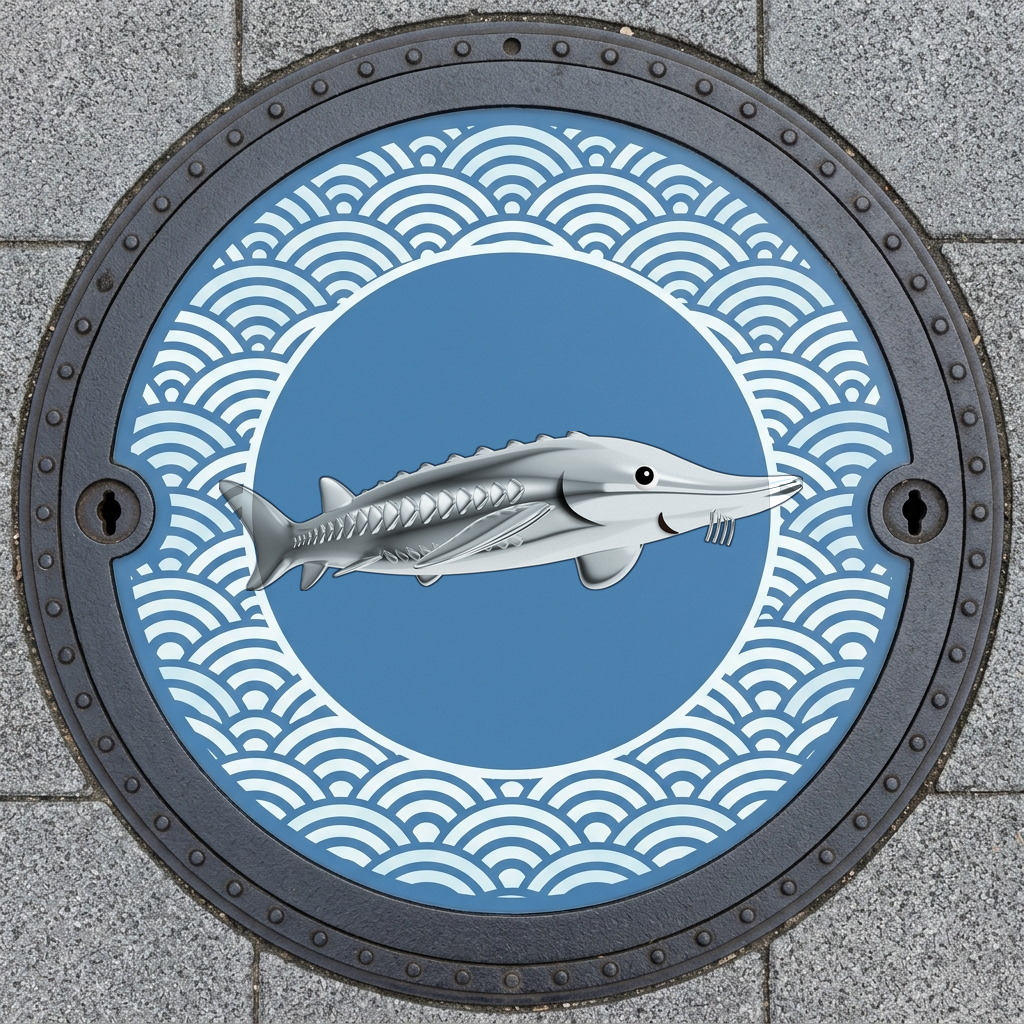
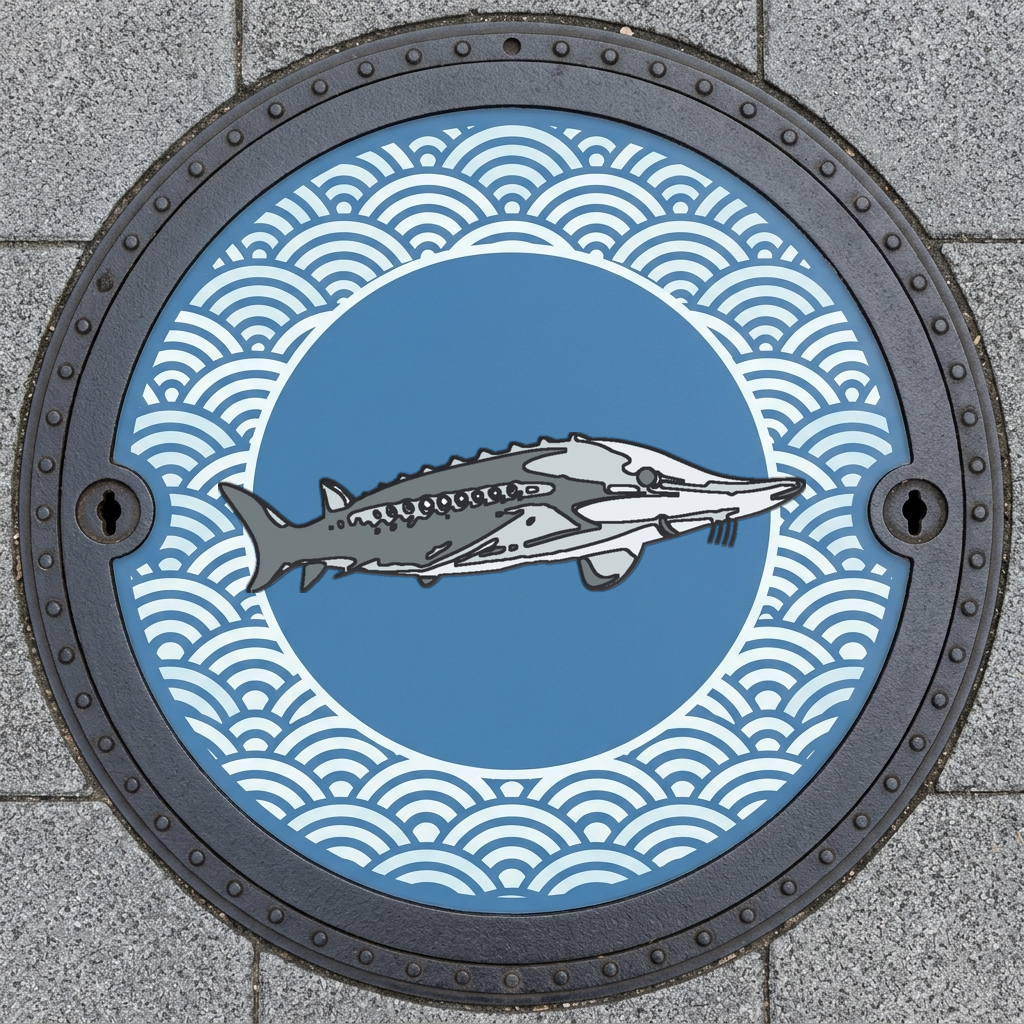
The covers are castings now, not pictures stuck on a disc
A colour cover is flat opaque resin poured into raised iron cells, so both
Fujies are rebuilt that way before they go on: one flat colour per area,
an iron wall around each, a hard edge and nothing see-through. The colours
are taken from the original artwork rather than invented. The lake and
bubble covers were regenerated because they had come back photographic.

Changed region(s): [[0.2188, 0.4062, 0.7812, 0.5938]]

diff --git a/tools/cast_art.py b/tools/cast_art.py
@@ -1,0 +1,92 @@
+"""Turn a piece of Fujie artwork into something a foundry could actually cast.
+
+A Japanese colour manhole cover is raised iron outlines with flat opaque
+resin poured into the cells between them. So the artwork has to lose its
+gloss, its gradients and any soft edge: every part becomes one flat colour,
+every colour is walled by a raised iron line, and nothing is see-through.
+The flat colours are taken FROM the original artwork, so nothing is invented.
+"""
+import numpy as np
+from PIL import Image, ImageDraw, ImageFilter, ImageChops
+
+IRON = (46, 48, 52)
+
+
+def _near_white(rgb, thr=232):
+    return (rgb.min(axis=2) > thr)
+
+
+def solid_cutout(path):
+    """Opaque silhouette + RGB. Background is only what the border can reach,
+    so white bellies and white highlights stay part of the character."""
+    im = Image.open(path)
+    if im.mode == "RGBA":
+        bg = Image.new("RGB", im.size, (255, 255, 255))
+        bg.paste(im, mask=im.getchannel("A"))
+        rgb = bg
+    else:
+        rgb = im.convert("RGB")
+    a = np.asarray(rgb).astype(int)
+    nw = np.ascontiguousarray((_near_white(a).astype(np.uint8)) * 255)
+    flood = Image.fromarray(nw).copy()   # fromarray shares a read-only buffer
+    w, h = flood.size
+    seeds = [(0, 0), (w - 1, 0), (0, h - 1), (w - 1, h - 1),
+             (w // 2, 0), (w // 2, h - 1), (0, h // 2), (w - 1, h // 2)]
+    for s in seeds:
+        if flood.getpixel(s) == 255:
+            ImageDraw.floodfill(flood, s, 128, thresh=0)
+    outside = np.array(flood) == 128
+    mask = (~outside).astype(np.uint8) * 255
+    mask = Image.fromarray(mask).filter(ImageFilter.MedianFilter(5))
+    bb = mask.point(lambda p: 255 if p > 127 else 0).getbbox()
+    return rgb.crop(bb), mask.crop(bb)
+
+
+def cast(path, colours=4, line=3.0, bevel=True, scale=1, simplify=9):
+    """Flatten the artwork to `colours` flat cells and wall each one in iron."""
+    rgb, mask = solid_cutout(path)
+    if scale != 1:
+        sz = (int(rgb.width * scale), int(rgb.height * scale))
+        rgb = rgb.resize(sz, Image.LANCZOS)
+        mask = mask.resize(sz, Image.LANCZOS)
+    m = np.asarray(mask) > 127
+
+    # flat cells, using colours sampled from the artwork itself
+    pre = rgb.filter(ImageFilter.MedianFilter(simplify | 1))
+    q = pre.quantize(colors=colours, method=Image.MEDIANCUT)
+    lab = np.asarray(q).astype(np.int16)
+    pal = np.asarray(q.getpalette()[: colours * 3]).reshape(-1, 3)
+    lab = np.asarray(Image.fromarray(lab.astype(np.uint8))
+                     .filter(ImageFilter.MedianFilter((simplify + 2) | 1))
+                     .filter(ImageFilter.MedianFilter((simplify + 2) | 1)))
+    flat = pal[np.clip(lab, 0, colours - 1)].astype(np.uint8)
+
+    # raised iron walls between cells and around the outside
+    edge = np.zeros(lab.shape, bool)
+    edge[:, 1:] |= lab[:, 1:] != lab[:, :-1]
+    edge[1:, :] |= lab[1:, :] != lab[:-1, :]
+    edge &= m
+    inner = Image.fromarray((edge * 255).astype(np.uint8))
+    inner = inner.filter(ImageFilter.MaxFilter(int(max(1, line)) | 1))
+
+    solid = Image.fromarray((m * 255).astype(np.uint8))
+    shrunk = solid.filter(ImageFilter.MinFilter(int(max(3, line * 2)) | 1))
+    contour = ImageChops.subtract(solid, shrunk)
+
+    out = Image.fromarray(flat).convert("RGBA")
+    ink = Image.new("RGBA", out.size, IRON + (0,))
+    ink.putalpha(ImageChops.lighter(inner, contour).filter(ImageFilter.GaussianBlur(0.6)))
+    out.alpha_composite(ink)
+
+    if bevel:
+        hgt = solid.filter(ImageFilter.GaussianBlur(max(1.5, line)))
+        hn = np.asarray(hgt).astype(np.float32) / 255.0
+        gy, gx = np.gradient(hn)
+        lit = np.clip((-gx - gy) * 2.6, -1, 1)
+        o = np.asarray(out).astype(np.float32)
+        o[..., :3] = np.clip(o[..., :3] + lit[..., None] * 42.0, 0, 255)
+        out = Image.fromarray(o.astype(np.uint8))
+
+    a = np.asarray(out).astype(np.uint8).copy()
+    a[..., 3] = (m * 255).astype(np.uint8)          # hard edge: nothing see-through
+    return Image.fromarray(a, "RGBA")

diff --git a/tools/build_manhole_set.py b/tools/build_manhole_set.py
@@ -7,8 +7,11 @@ three covers, Chibi Fujie on two. Nothing about either character is redrawn.
 Output: Fujie_Creative/20_new_ideas/cover_*.png  and  cover_set_sheet.png
 """
 import pathlib
+import sys
 import numpy as np
 from PIL import Image, ImageFilter, ImageChops
+sys.path.insert(0, str(pathlib.Path(__file__).parent))
+from cast_art import cast
 
 ROOT = pathlib.Path("D:/Fuji_Famous")
 OUT = ROOT / "Fujie_Creative" / "20_new_ideas"
@@ -28,19 +31,27 @@ def cutout(path, white_key=False):
 
 
 def field_circle(im):
-    """Find the coloured resin field: centre and radius, in pixels."""
+    """Find the resin field: the disc inside the iron ring. Rays out from the
+    middle until they run into a long stretch of iron."""
     a = np.asarray(im.convert("RGB")).astype(int)
-    m = ((a[:, :, 2] > a[:, :, 0] + 10) | (a[:, :, 1] > a[:, :, 0] + 10))
-    h, w = m.shape
-    m[: int(h * .04)] = False; m[int(h * .96):] = False
-    m[:, : int(w * .04)] = False; m[:, int(w * .96):] = False
-    ys, xs = np.nonzero(m)
-    cx, cy = (xs.min() + xs.max()) / 2, (ys.min() + ys.max()) / 2
-    r = min(xs.max() - xs.min(), ys.max() - ys.min()) / 2
-    return cx, cy, r
+    h, w, _ = a.shape
+    mx = a.max(2)
+    iron = ((mx - a.min(2)) < 28) & (mx < 120)
+    cy, cx = h / 2, w / 2
+    hits = []
+    for t in np.linspace(0, 2 * np.pi, 180, endpoint=False):
+        dx, dy, run = np.cos(t), np.sin(t), 0
+        for r in range(30, int(min(h, w) / 2)):
+            if iron[int(cy + dy * r), int(cx + dx * r)]:
+                run += 1
+                if run >= 14:
+                    hits.append(r - 13); break
+            else:
+                run = 0
+    return cx, cy, float(np.median(hits))
 
 
-def lay(base, art, cx, cy, r, wu, dy=0, flip=False, outline=2.4, shade=0.7):
+def lay(base, art, cx, cy, r, wu, dy=0, flip=False, outline=1.6, shade=0.0):
     art = art.transpose(Image.FLIP_LEFT_RIGHT) if flip else art
     fa = art.size[0] / art.size[1]
     W = 2 * wu * r
@@ -70,15 +81,18 @@ def lay(base, art, cx, cy, r, wu, dy=0, flip=False, outline=2.4, shade=0.7):
 # blank, character, width across the field, vertical nudge, mirrored, how much
 # of the cover's own light and texture the design picks up
 COVERS = [
-    ("cover_station",  "cover_blank_river",   "official", 0.60, -0.22, False, 0.70),
-    ("cover_cityhall", "cover_blank_wave",    "official", 0.62,  0.00, False, 0.70),
-    ("cover_farmgate", "cover_blank_hills",   "official", 0.62,  0.08, True,  0.70),
-    ("cover_park",     "cover_blank_bubbles", "chibi",    0.58,  0.02, False, 0.60),
-    ("cover_street",   "cover_blank_reeds",   "chibi",    0.60, -0.02, True,  0.12),
+    ("cover_station",  "cover_blank_river",   "official", 0.76, -0.26, False, 0.0),
+    ("cover_cityhall", "cover_blank_wave",    "official", 0.72,  0.00, False, 0.0),
+    ("cover_farmgate", "cover_blank_hills",   "official", 0.78,  0.40, True,  0.0),
+    ("cover_park",     "cover_blank_bubbles", "chibi",    0.62,  0.00, False, 0.0),
+    ("cover_street",   "cover_blank_reeds",   "chibi",    0.68,  0.02, True,  0.0),
 ]
 
 if __name__ == "__main__":
-    art = {"official": cutout(OFFICIAL), "chibi": cutout(CHIBI, white_key=True)}
+    # both characters are first turned into something castable: flat opaque
+    # cells walled in raised iron, no gloss and no see-through edges
+    art = {"official": cast(OFFICIAL, colours=5, line=5, scale=0.5, simplify=7),
+           "chibi": cast(CHIBI, colours=6, line=5, scale=0.7, simplify=5)}
     made = []
     for name, blank, who, wu, dyf, flip, shade in COVERS:
         base = Image.open(OUT / (blank + ".png")).convert("RGB")

diff --git a/tools/run_ideas_manhole_set.py b/tools/run_ideas_manhole_set.py
@@ -45,6 +45,9 @@ FIELDS = {
 }
 
 if __name__ == "__main__":
+    only = [a for a in sys.argv[1:] if not a.startswith("-")]
     for name, field in FIELDS.items():
+        if only and not any(o in name for o in only):
+            continue
         print(name, flush=True)
         gen(RULES + field, OUT + name + ".png", aspect="1:1")
